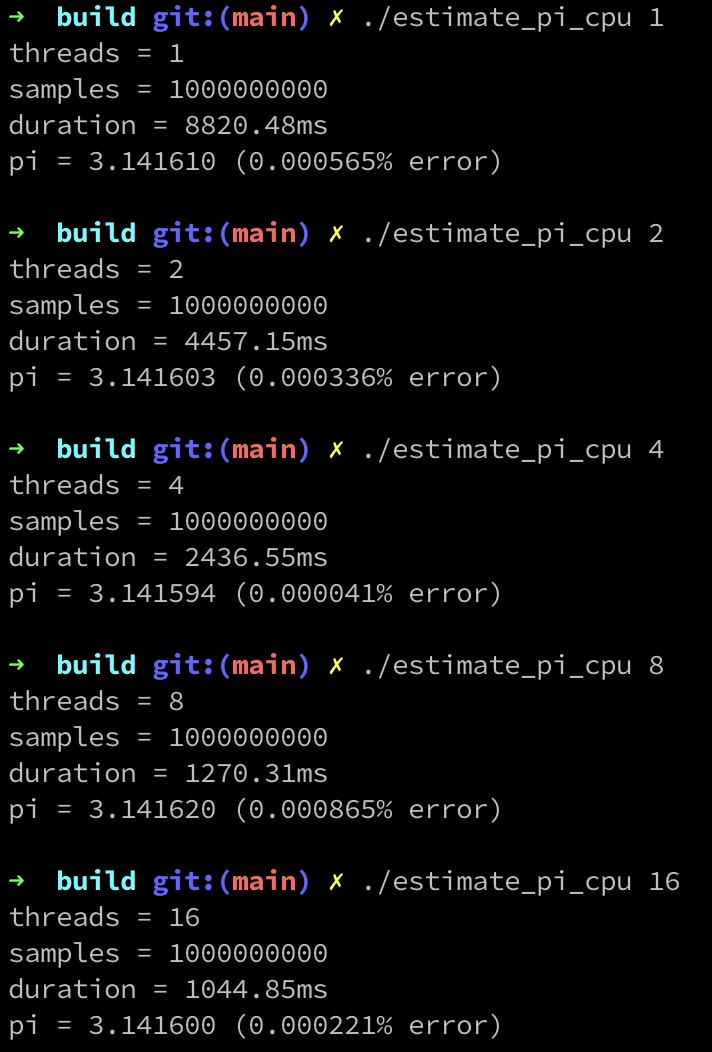
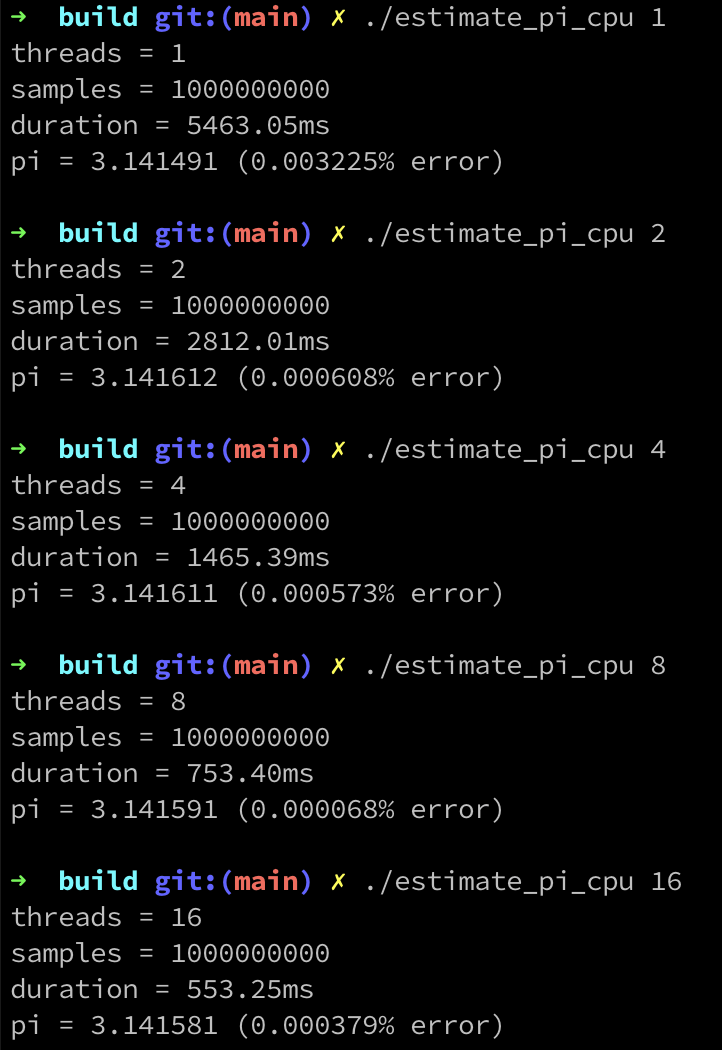
Update README.md

diff --git a/README.md b/README.md
@@ -5,15 +5,15 @@ Some test numbers:
 - MacBook Pro (16-inch, 2019), 2.4 GHz 8-Core Intel Core i9, AMD Radeon Pro 5500M 8 GB
 - CPU
   - samples = 1,000,000,000
-  - 1 thread, 8820.48 ms (1x)
-  - 2 threads, 4457.15 ms (1.97x)
-  - 4 threads, 2436.55 ms (3.62x)
-  - 8 threads, 1270.31 ms (6.94x)
-  - 16 threads, 1044.85 ms (8.44x)
+  - 1 thread, 5463.04 ms (1x)
+  - 2 threads, 2812.01 ms (1.94x)
+  - 4 threads, 1465.39 ms (3.72x)
+  - 8 threads, 753.40 ms (7.25x)
+  - 16 threads, 553.25 ms (9.87x)
 - OpenCL on GPU
   - samples = 1,000,960,000
-  - pi_v1 kernel, 258.64 ms (34x)
-  - pi_v2 kernel, 32.69 ms (267x)
+  - v1 kernel, 258.64 ms (21x)
+  - v2 kernel, 32.69 ms (167x)
 - Metal
   - samples = 1,000,000,000
-  - 35.63 ms (247x)
+  - 35.63 ms (153x)
